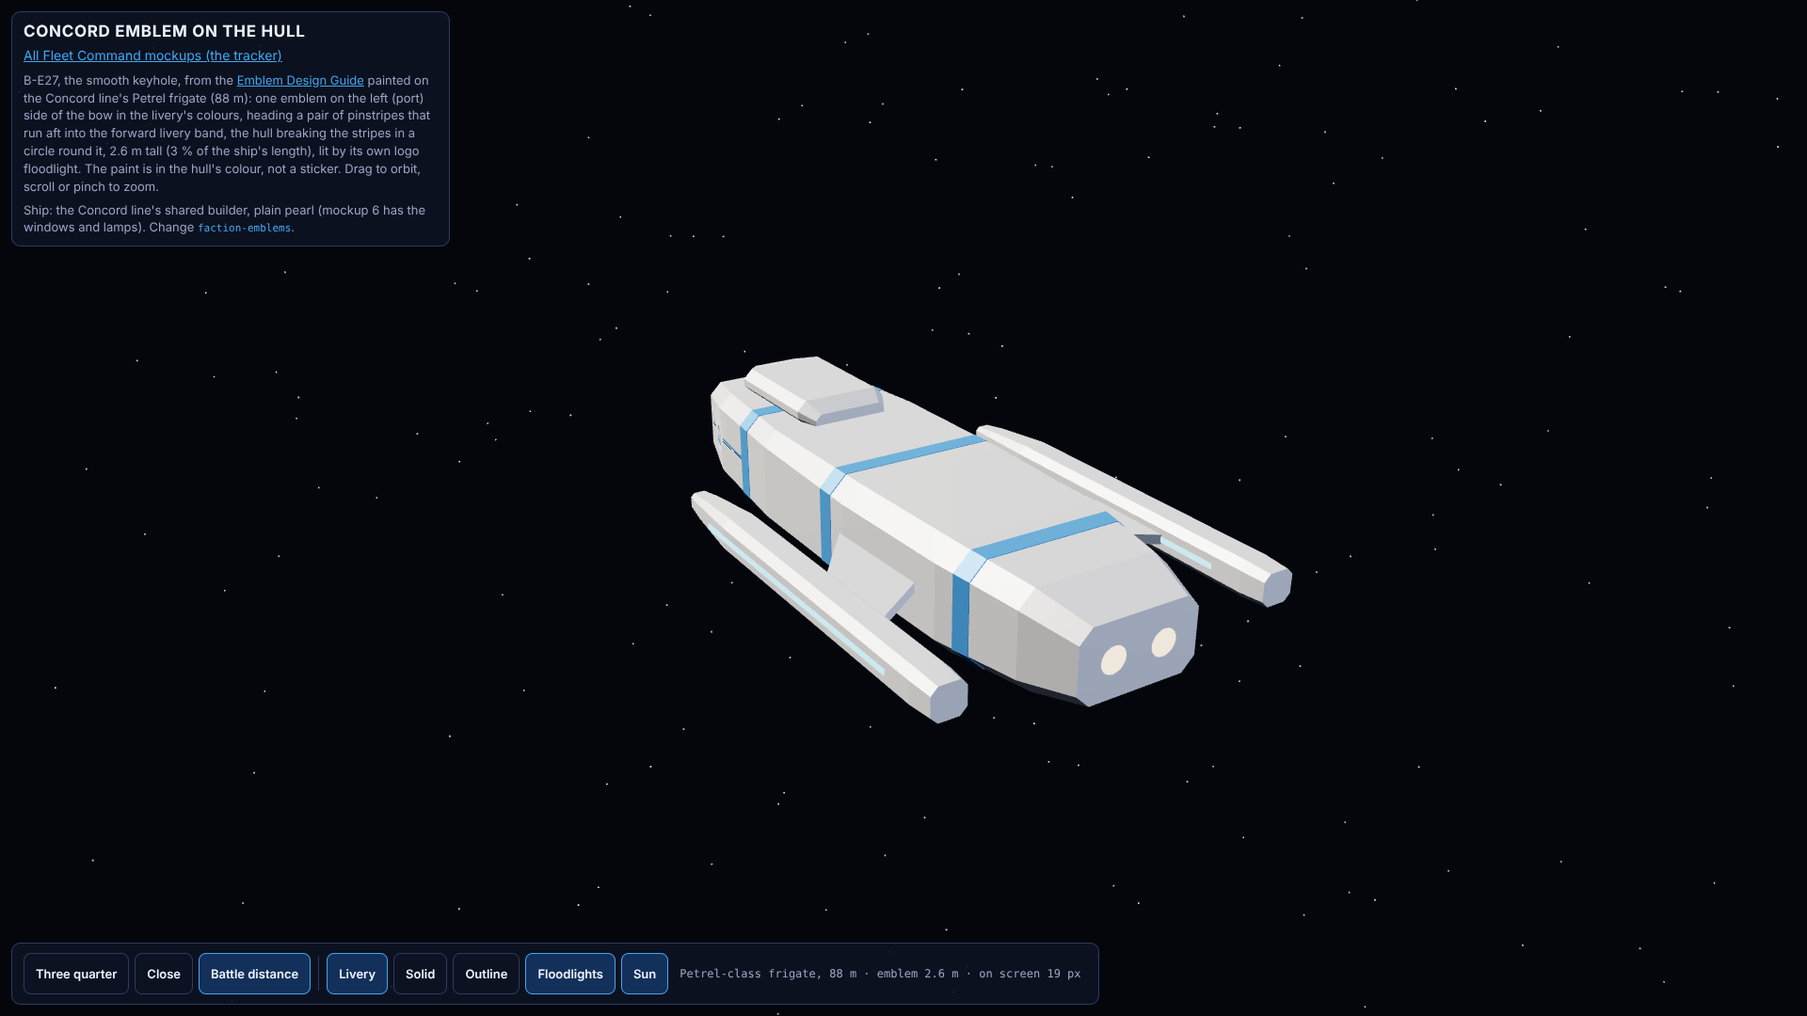
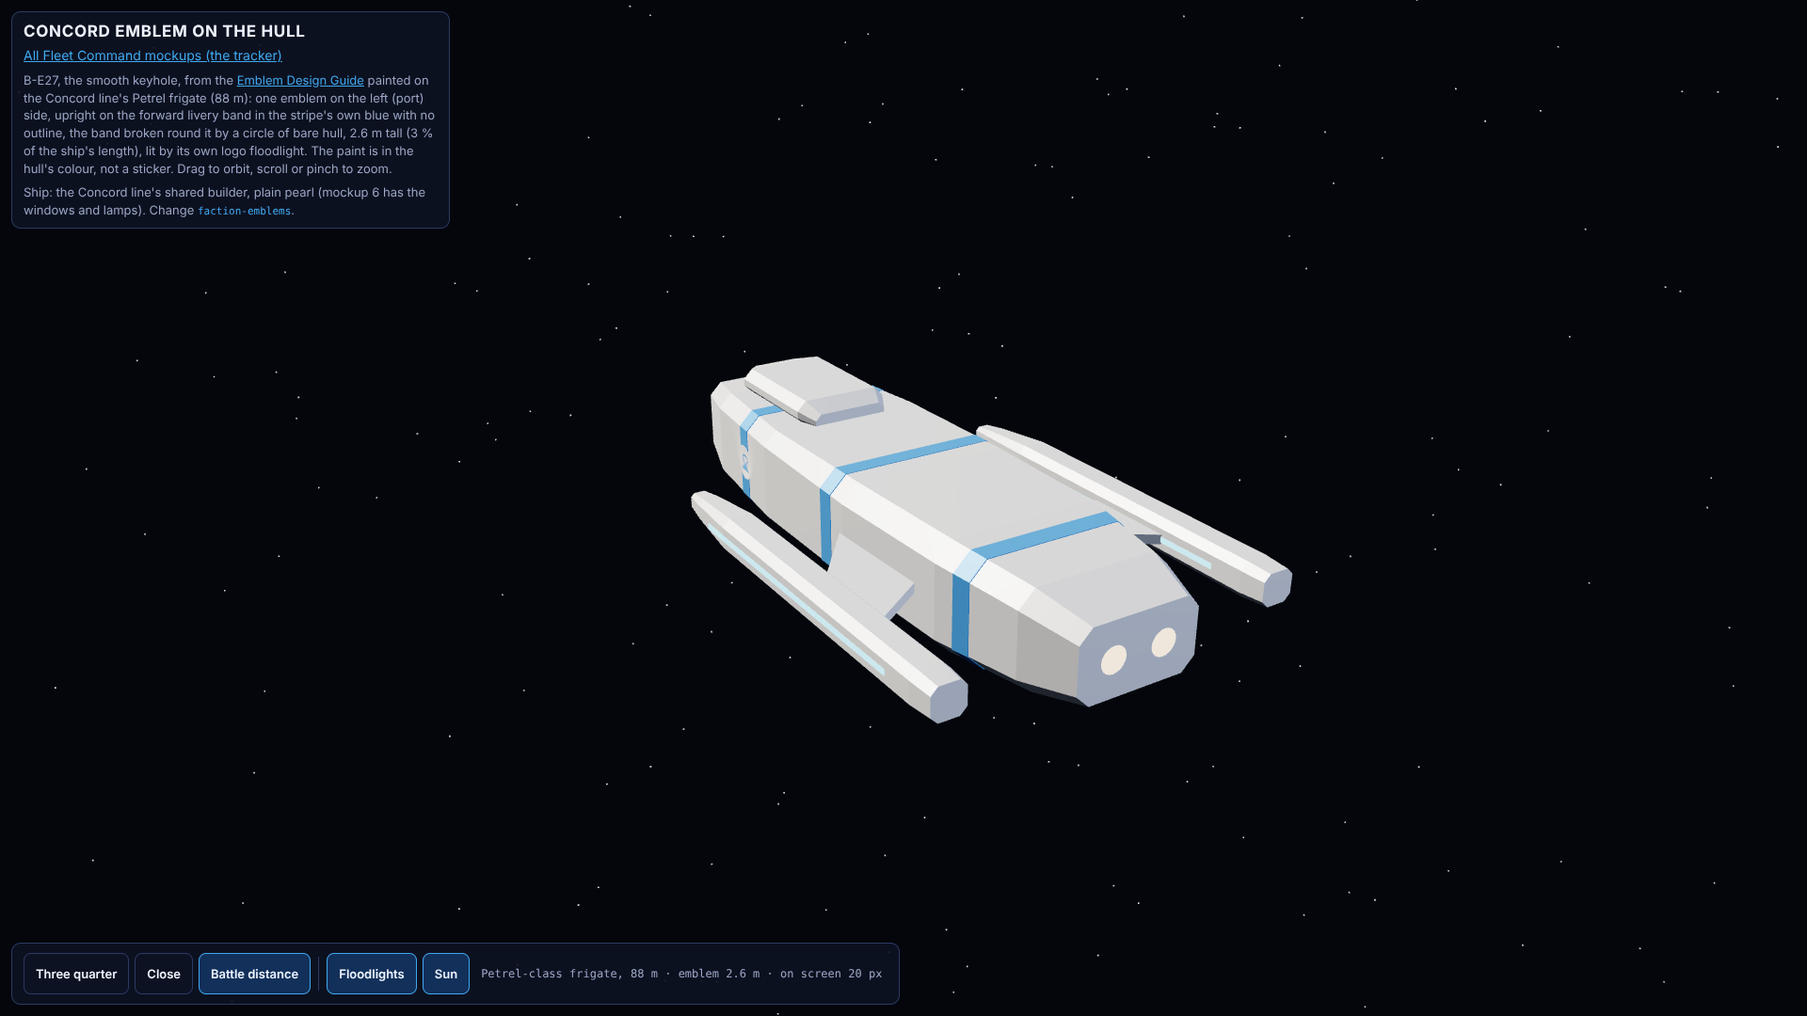
Concord emblem on the hull: on the livery band, no outline, band broken by bare hull; no livery added
Claude-Session: https://claude.ai/code/session_01RGPQurdNhehmMFB559epqW

Changed region(s): [[0.0, 0.0917, 0.25, 0.2444], [0.1875, 0.9167, 0.5312, 0.9778], [0.5625, 0.9472, 0.5938, 0.9778]]

diff --git a/docs/mockups/concord-emblem-hull.html b/docs/mockups/concord-emblem-hull.html
@@ -45,7 +45,7 @@ html, body { margin: 0; height: 100%; background: var(--bg); color: var(--ink); 
 <div class="panel title">
   <h1>Concord emblem on the hull</h1>
   <a href="https://claude.ai/artifact/8VqA9YjhCrgoiY2CGR1Qxu" target="_blank" rel="noopener">All Fleet Command mockups (the tracker)</a>
-  <p class="long">B-E27, the smooth keyhole, from the <a href="https://claude.ai/artifact/1ELwhue4vzFPjySnVc475V" target="_blank" rel="noopener">Emblem Design Guide</a> painted on the Concord line's Petrel frigate (88 m): one emblem on the left (port) side of the bow in the livery's colours, heading a pair of pinstripes that run aft into the forward livery band, the hull breaking the stripes in a circle round it, 2.6 m tall (3 % of the ship's length), lit by its own logo floodlight. The paint is in the hull's colour, not a sticker. Drag to orbit, scroll or pinch to zoom.</p>
+  <p class="long">B-E27, the smooth keyhole, from the <a href="https://claude.ai/artifact/1ELwhue4vzFPjySnVc475V" target="_blank" rel="noopener">Emblem Design Guide</a> painted on the Concord line's Petrel frigate (88 m): one emblem on the left (port) side, upright on the forward livery band in the stripe's own blue with no outline, the band broken round it by a circle of bare hull, 2.6 m tall (3 % of the ship's length), lit by its own logo floodlight. The paint is in the hull's colour, not a sticker. Drag to orbit, scroll or pinch to zoom.</p>
   <p>Ship: the Concord line's shared builder, plain pearl (mockup 6 has the windows and lamps). Change <code>faction-emblems</code>.</p>
 </div>
 <div class="panel bar" id="bar"></div>
@@ -325,20 +325,11 @@ const PARTS = data('assets/emblems/concord/b-e27.parts.json');
 const CL = window.FCConcordLine(THREE);
 const V3 = (x = 0, y = 0, z = 0) => new THREE.Vector3(x, y, z);
 
-// The guide's two versions (docs/design/emblem-guide.html, VERSIONS): night-blue on a pearl field for a light ground (the
-// pearl hull), and pearl on a night field for a dark one.
-// The solid one is the default (owner, 2026-11-04: "on the ship hull I like the solid shape more").
-// The livery version is the default (owner, 2026-11-04: "Have it use the same color scheme as the liveries and integrate
-// it into one of the stripes"): its field is the livery's stripe colour, so the keyhole reads as the stripe swelling into a
-// badge; its frame the livery's seam colour; the ship pearl and the star cyan (owner: "a cyan colored star in the
-// middle"). The livery's colours are read from the Concord line's own table (CL.LIVERIES), the stripes' one source.
+// The emblem's colours (owner, 2026-11-04): the field in the livery's stripe colour ("use the same color scheme as the
+// liveries"), read from the Concord line's own table (CL.LIVERIES); a pearl ship; a cyan star ("a cyan colored star in the
+// middle"); and no outline ("No outline"), so the keyhole is the stripe-blue field alone.
 const LIVERY = CL.LIVERIES.concord, srgb = (rgb) => '#' + new THREE.Color(...rgb).convertLinearToSRGB().getHexString();
-const VERSIONS = {
-  livery: { label: 'Livery', ink: '#eef3ff', field: srgb(LIVERY.stripe), frame: srgb(LIVERY.seam), floor: '#2fd0f0', lit: '#8fb0f6' },
-  // The star cyan on the solid version (owner, 2026-11-04: "Solid color variant with a cyan colored star in the middle").
-  dk: { label: 'Solid', ink: '#eef3ff', field: '#1b2a6b', frame: '#eef3ff', floor: '#2fd0f0', lit: '#8fb0f6' },
-  lt: { label: 'Outline', ink: '#1b2a6b', field: '#eef3ff', frame: '#1b2a6b', floor: '#2f62e0', lit: '#7fa2f2' },
-};
+const PAINT = { ink: '#eef3ff', field: srgb(LIVERY.stripe), frame: null, floor: '#2fd0f0', lit: '#8fb0f6' };
 const CLASS_ID = 'petrel_level';
 const C = CL.CLASSES[CLASS_ID];
 const MARK_H = C.length * 0.03;               // half of E7's 6 % (owner: "1/2 size"): 3 % of the ship's length, 2.6 m on the Petrel
@@ -352,7 +343,7 @@ function emblemCanvas(v) {
   const g = cv.getContext('2d');
   const path = (rings) => { g.beginPath(); for (const r of rings) { r.forEach(([x, y], i) => (i ? g.lineTo(x * k, y * k) : g.moveTo(x * k, y * k))); g.closePath(); } };
   const fill = (rings, col, rule = 'nonzero') => { path(rings); g.fillStyle = col; g.fill(rule); };
-  fill(PARTS.frame, v.frame, 'evenodd');
+  if (v.frame) fill(PARTS.frame, v.frame, 'evenodd');
   fill(PARTS.field, v.field);
   for (const leg of PARTS.legs) fill([leg], v.ink);
   fill([PARTS.tail], v.ink);
@@ -391,43 +382,32 @@ scene.add(ship);
 const S = C.stations, top = (z) => CL.hullAt(S, z)[2];
 const MARKS = [];
 { // One emblem, half size, on the left (port) side (owner, 2026-11-04: "too many logos on the hull there", "1/2 size on the
-  // left side", "only one logo"), forward on the bow's flat side ahead of the last windows (C.live[1]), upright (owner:
-  // "don't rotate our logo"). The side narrows toward the bow, so its normal leans forward.
-  const half = MARK_H * 0.9 / 2 + 0.6, z = C.live[1] + half, h = CL.hullAt(S, z), ch = CL.chOf(h[1], h[2], h[3], h[4]);
+  // left side", "only one logo"), upright ("don't rotate our logo"), centred on the forward livery band on the hull's flat
+  // side ("place emblem on livery stripe"). The side narrows toward the bow, so its normal leans forward.
+  const z = Math.max(...C.stripes), h = CL.hullAt(S, z), ch = CL.chOf(h[1], h[2], h[3], h[4]);
   const y = ((h[2] - ch) + (h[3] + ch)) / 2, dhb = (CL.hullAt(S, z + 1)[1] - CL.hullAt(S, z - 1)[1]) / 2;
   const n = V3(1, 0, -dhb).normalize(), v = V3(0, 1, 0);
   MARKS.push({ key: 'port', c: V3(h[1], y, z), n, v, u: V3().crossVectors(v, n) });
 }
-// The pinstripes (owner, 2026-11-04: "integrate it into one of the stripes", then a reference of a hull whose emblem heads
-// a pair of pinstripes, "See how this works?"): two lines in the livery's colours run aft from the emblem's side along the
-// flank, a broad one in the stripe colour over a thin one in the seam colour, and end in the forward livery band, so the
-// emblem is tied into the ship's own stripes. Metres, ship space; painted on the port flank only.
-const PIN = (() => { const m = MARKS[0], band = Math.max(...C.stripes.filter((z) => z < m.c.z));
-  // The hull breaks the stripe round the emblem (owner, 2026-11-04: "The stripe having a circle around it where the logo
-  // crosses", "The hull should break the stripe livery at that spot"): a circle of bare plating, clear of the emblem's
-  // farthest corner by 0.35 m, inside which no stripe is painted.
-  const corner = Math.max(...PARTS.frame.flat().map(([x, y]) => Math.hypot(x - 50, y - 50))) * M_PER_UNIT;
-  const clear = corner + 0.35; // the stripes carry on forward past the emblem too, so the emblem crosses them
-  return { z0: band + 1.2, z1: m.c.z + clear + 2.5, y0: m.c.y, broad: [0.05, 0.33], thin: [-0.17, -0.05], clear }; })();
+// The hull breaks the band round the emblem (owner, 2026-11-04: "The stripe having a circle around it where the logo
+// crosses", "The hull should break the stripe livery at that spot"): inside a circle 0.35 m clear of the emblem's farthest
+// corner the band is cut away, so bare pearl plating rings the emblem. No livery is added ("do not add livery in this
+// change"): the band is the Concord line's own.
+const BREAK_R = Math.max(...PARTS.frame.flat().map(([x, y]) => Math.hypot(x - 50, y - 50))) * M_PER_UNIT + 0.35;
 
 // The paint: the hull's pearl material with the emblem mixed into its colour where each mark's square covers the plating
 // that faces the mark's way. Planar projection in ship space, so the paint follows the hull's own faces.
-const decalTex = new THREE.CanvasTexture(emblemCanvas(VERSIONS.livery));
+const decalTex = new THREE.CanvasTexture(emblemCanvas(PAINT));
 decalTex.encoding = THREE.sRGBEncoding; decalTex.anisotropy = 8; decalTex.generateMipmaps = true;
 const uDecal = { value: decalTex };
 const uMarks = MARKS.map((m) => ({ c: m.c, n: m.n, u: m.u, v: m.v }));
-function paintHull(mat) {
+function paintHull(mat, cut = false) {
   const m = mat.clone();
   m.onBeforeCompile = (sh) => {
     sh.uniforms.uDecal = uDecal;
     MARKS.forEach((mk, i) => { for (const k of ['c', 'n', 'u', 'v']) sh.uniforms[`uM${i}${k}`] = { value: mk[k] }; });
     sh.uniforms.uSize = { value: TEX_SIZE_M };
-    sh.uniforms.uPin = { value: new THREE.Vector4(PIN.z0, PIN.z1, PIN.y0, PIN.clear) };
-    sh.uniforms.uPinC = { value: MARKS[0].c };
-    sh.uniforms.uPinBroad = { value: new THREE.Vector2(...PIN.broad) };
-    sh.uniforms.uPinThin = { value: new THREE.Vector2(...PIN.thin) };
-    sh.uniforms.uPinA = { value: new THREE.Color(...LIVERY.stripe) };
-    sh.uniforms.uPinB = { value: new THREE.Color(...LIVERY.seam) };
+    sh.uniforms.uBreak = { value: BREAK_R };
     sh.vertexShader = sh.vertexShader.replace('#include <common>', '#include <common>\nvarying vec3 vShipPos;\nvarying vec3 vShipN;')
       .replace('#include <begin_vertex>', '#include <begin_vertex>\nvShipPos = position;\nvShipN = normal;');
     const decl = MARKS.map((_, i) => `uniform vec3 uM${i}c, uM${i}n, uM${i}u, uM${i}v;`).join('\n');
@@ -437,16 +417,12 @@ varying vec3 vShipPos;
 varying vec3 vShipN;
 uniform sampler2D uDecal;
 uniform float uSize;
-uniform vec4 uPin;
-uniform vec2 uPinBroad, uPinThin;
-uniform vec3 uPinA, uPinB, uPinC;
+uniform float uBreak;
 ${decl}
-void pinstripes(inout vec3 col) {
-  if (vShipPos.x <= 0.0 || normalize(vShipN).x < 0.7 || vShipPos.z < uPin.x || vShipPos.z > uPin.y) return;
-  if (length((vShipPos - uPinC).yz) < uPin.w) return; // the hull's circle round the emblem
-  float dy = vShipPos.y - uPin.z;
-  if (dy > uPinBroad.x && dy < uPinBroad.y) col = uPinA;
-  else if (dy > uPinThin.x && dy < uPinThin.y) col = uPinB;
+// The band is cut away inside the circle round the first mark, so the plating under it shows.
+void breakBand() {
+  vec3 d = vShipPos - uM0c;
+  if (abs(dot(d, uM0n)) < 1.5 && length(vec2(dot(d, uM0u), dot(d, uM0v))) < uBreak) discard;
 }
 void paint(vec3 c, vec3 n, vec3 u, vec3 v, inout vec3 col) {
   vec3 d = vShipPos - c;
@@ -457,14 +433,16 @@ void paint(vec3 c, vec3 n, vec3 u, vec3 v, inout vec3 col) {
   if (uv.x < 0.0 || uv.x > 1.0 || uv.y < 0.0 || uv.y > 1.0) return;
   vec4 t = texture2D(uDecal, uv);
   col = mix(col, t.rgb, t.a);
-}`).replace('#include <map_fragment>', `#include <map_fragment>\npinstripes(diffuseColor.rgb);\n${apply}`);
+}`).replace('#include <map_fragment>', `#include <map_fragment>\n${cut ? 'breakBand();' : apply}`);
   };
-  m.customProgramCacheKey = () => 'emblem-paint';
+  m.customProgramCacheKey = () => (cut ? 'emblem-cut' : 'emblem-paint');
   return m;
 }
-// Painted on the primary hull's pearl and on its livery stripes, so the emblem runs across the stripe it sits on.
+// Painted on the primary hull's pearl; the livery bands over it are cut away round the emblem.
 const stripeHex = new THREE.Color(...LIVERY.stripe).getHex();
-ship.traverse((o) => { if (o.isMesh && o.userData.part === 'primary' && o.material.color && [0xe4e2dc, stripeHex].includes(o.material.color.getHex())) o.material = paintHull(o.material); });
+ship.traverse((o) => { if (!o.isMesh || o.userData.part !== 'primary' || !o.material.color) return;
+  const hex = o.material.color.getHex();
+  if (hex === 0xe4e2dc) o.material = paintHull(o.material); else if (hex === stripeHex) o.material = paintHull(o.material, true); });
 
 // Light: a low sun and the logo floodlights (CLAUDE.md section 10: logo lights on insignia and registry), each lamp standing
 // off the plating ahead of or below its mark and throwing its fan across it.
@@ -482,7 +460,7 @@ for (const mk of MARKS) {
 // Views. Each is a camera offset from a target, in ship space.
 const VIEWS = {
   three_quarter: { label: 'Three quarter', at: V3(0, 2, 4), from: V3(95, 45, 105), fov: 40 },
-  flank: { label: 'Close', at: MARKS[0].c.clone().add(V3(0, 0, -4)), from: MARKS[0].c.clone().add(MARKS[0].n.clone().multiplyScalar(16)).add(V3(0, 2, -1)), fov: 40 },
+  flank: { label: 'Close', at: MARKS[0].c.clone(), from: MARKS[0].c.clone().add(MARKS[0].n.clone().multiplyScalar(13)).add(V3(0, 2, 2)), fov: 40 },
   chase: { label: 'Battle distance', at: V3(0, 0, 0), from: null, fov: 40 }, // set so the ship fills 40 % of the width
 };
 function setView(key) {
@@ -498,16 +476,11 @@ function setView(key) {
 }
 let current = 'three_quarter';
 
-// The bar: views, the paint version, floodlights and the sun.
+// The bar: views, floodlights and the sun.
 const bar = document.getElementById('bar');
 const btn = (label, on) => { const b = document.createElement('button'); b.type = 'button'; b.textContent = label; b.addEventListener('click', on); bar.append(b); return b; };
 const viewBtns = Object.entries(VIEWS).map(([k, V]) => { const b = btn(V.label, () => setView(k)); b.dataset.view = k; return b; });
 bar.append(Object.assign(document.createElement('span'), { className: 'sep' }));
-const verBtns = Object.entries(VERSIONS).map(([k, v]) => { const b = btn(v.label, () => setVersion(k)); b.dataset.ver = k; return b; });
-function setVersion(k) {
-  decalTex.image = emblemCanvas(VERSIONS[k]); decalTex.needsUpdate = true;
-  for (const b of verBtns) b.setAttribute('aria-pressed', String(b.dataset.ver === k));
-}
 const floodBtn = btn('Floodlights', () => { const on = floodBtn.getAttribute('aria-pressed') !== 'true'; floodBtn.setAttribute('aria-pressed', String(on)); floods.forEach((f) => (f.visible = on)); });
 floodBtn.setAttribute('aria-pressed', 'true');
 const sunBtn = btn('Sun', () => { const on = sunBtn.getAttribute('aria-pressed') !== 'true'; sunBtn.setAttribute('aria-pressed', String(on)); sun.visible = on; });
@@ -533,12 +506,11 @@ function resize() {
 }
 window.addEventListener('resize', resize);
 resize();
-setVersion('livery');
 setView('three_quarter');
 renderer.setAnimationLoop(() => { controls.update(); renderer.render(scene, camera); });
 
-const shot = (k, ver = 'livery') => () => { setVersion(ver); setView(k); controls.update(); renderer.render(scene, camera); };
-window.MOCKUP_SHOTS = { three_quarter: shot('three_quarter'), flank: shot('flank'), chase: shot('chase'), flank_solid: shot('flank', 'dk') };
+const shot = (k) => () => { setView(k); controls.update(); renderer.render(scene, camera); };
+window.MOCKUP_SHOTS = { three_quarter: shot('three_quarter'), flank: shot('flank'), chase: shot('chase') };
 window.MOCKUP_SCENE = scene;
 requestAnimationFrame(() => requestAnimationFrame(() => { window.MOCKUP_READY = true; }));
 })();

diff --git a/docs/mockups/tracker.html b/docs/mockups/tracker.html
@@ -134,8 +134,8 @@ const MOCKUPS = [
     url: 'https://claude.ai/artifact/CJSVJxXYLn7cdKF6TDtvDN', published: '2026-11-04', version: 6,
     summary: 'The Concord emblem you accepted (B-E27, the smooth keyhole) as an orbitable badge 100 mm across: a brushed platinum frame, an iridescent pearl ship with a two-tier saucer, segmented legs and a satin cyan star pressed into it, and a holographic night in the bell whose nebula and stars sit at different depths and move as you turn it. Material Maker maps (colour, normal, AO, roughness and metal, specular); the Blender renders beside it.' },
   { id: 'M11', title: 'Concord emblem on the hull', change: 'faction-emblems', page: 'docs/mockups/concord-emblem-hull.html',
-    url: 'https://claude.ai/artifact/FLP6mnCeUCwn9c2rG2pxK9', published: '2026-11-04', version: 7,
-    summary: 'The Concord emblem you accepted, B-E27 (the smooth keyhole), painted once on the Concord line\'s Petrel frigate (88 m): upright on the left (port) side of the bow, half size at 2.6 m (3 % of the ship\'s length), in the livery\'s colours with a cyan star, crossing two pinstripes that run aft into the forward livery band, the hull breaking them in a circle round it, under its own logo floodlight, painted into the hull\'s colour (no sticker). The solid and outline versions as other choices. Views: three quarter, close and battle distance, with the emblem\'s height on screen.' },
+    url: 'https://claude.ai/artifact/FLP6mnCeUCwn9c2rG2pxK9', published: '2026-11-04', version: 8,
+    summary: 'The Concord emblem you accepted, B-E27 (the smooth keyhole), painted once on the Concord line\'s Petrel frigate (88 m): upright on the left (port) side on the forward livery band, half size at 2.6 m (3 % of the ship\'s length), in the stripe\'s own blue with no outline and a cyan star, the band broken round it by a circle of bare hull, under its own logo floodlight, painted into the hull\'s colour (no sticker). No livery added. Views: three quarter, close and battle distance, with the emblem\'s height on screen.' },
 ];
 
 // Every other published artifact, by section. Each also has a record in docs/artifacts/<name>/README.md.

diff --git a/openspec/changes/faction-emblems/design.md b/openspec/changes/faction-emblems/design.md
@@ -63,14 +63,13 @@ closed outline with the ship 5.3 units clear. On the hull it is the solid versio
 "Solid color variant with a cyan colored star in the middle"). The 3D badge (mockup 10) is rebuilt on B-E27 (owner: "Also render the 3d version too"),
 its star satin cyan: the near-white pearl enamel's maps tinted `#2fd0f0`, since Signal blue cannot be tinted up to cyan.
 
-**On the hull, in the livery** (owner, 2026-11-04: "Have it use the same color scheme as the liveries and integrate it into
-one of the stripes", then "See how this works? Although don't rotate our logo", with a reference of an emblem heading a
-pair of pinstripes): the emblem's field is the livery's stripe colour and its frame the seam colour, both read from the
-Concord line's livery table, with a pearl ship and the cyan star. It stands upright on the port bow and heads two
-pinstripes (broad stripe blue, 0.28 m, over thin seam navy, 0.12 m) that run aft along the flank and end in the forward
-livery band. Taken from the reference: only the idea of an emblem heading pinstripes; no shape or art. The emblem
-crosses the stripes, which run on forward past it, and the hull breaks them in a circle of bare plating round it, 0.35 m
-clear of its farthest corner (owner: "The hull should break the stripe livery at that spot").
+**On the hull, on the livery band** (owner, 2026-11-04: "Have it use the same color scheme as the liveries and integrate it
+into one of the stripes", "don't rotate our logo", "The hull should break the stripe livery at that spot", then "No
+outline, place emblem on liver stripe dp not add livery in this change"): the emblem stands upright on the forward livery
+band on the port side, its field the band's own stripe colour (read from the Concord line's livery table) with no outline,
+a pearl ship and the cyan star. The band is cut away round it in a circle of bare plating 0.35 m clear of its farthest
+corner. This change adds no livery; the band is the Concord line's own. (A pinstripe layout, after a reference picture of
+an emblem heading two pinstripes, was tried and dropped.)
 
 ## The rules for an emblem
 

diff --git a/mockup-work.md b/mockup-work.md
@@ -31,7 +31,7 @@ account and every link here is updated.
 | 8 | Battle console: Krai Warhost | Drafted (2026-11-04, v13) | `krai-battle-console` | `docs/mockups/battle-console-krai.html` (written by `tools/mockups/skin_page.py`) | https://claude.ai/artifact/D6PacxkhuY6Q2n8TGHKDTv |
 | 9 | Faction emblems: every faction's crest and insignia | Drafted (2026-11-03, page written; to publish from the desktop session) | `faction-emblems` | `docs/mockups/faction-emblems.html` | |
 | 10 | Concord badge in 3D: the emblem shape B-E27 (the smooth keyhole) as a badge | Drafted (2026-11-04, v6) | `faction-emblems` | `docs/mockups/concord-emblem-3d.html` | https://claude.ai/artifact/CJSVJxXYLn7cdKF6TDtvDN |
-| 11 | Concord emblem on the hull: B-E27 (the smooth keyhole) painted on the Petrel frigate | Drafted (2026-11-04, v7) | `faction-emblems` | `docs/mockups/concord-emblem-hull.html` | https://claude.ai/artifact/FLP6mnCeUCwn9c2rG2pxK9 |
+| 11 | Concord emblem on the hull: B-E27 (the smooth keyhole) painted on the Petrel frigate | Drafted (2026-11-04, v8) | `faction-emblems` | `docs/mockups/concord-emblem-hull.html` | https://claude.ai/artifact/FLP6mnCeUCwn9c2rG2pxK9 |
 
 New mockups are added at the bottom with the owner's words, never renumbered.
 
@@ -563,3 +563,6 @@ Owner, 2026-11-04: "nice! can you show what this emblem looks on concord ship hu
 - **The hull breaks the stripe** (owner, 2026-11-04: "The stripe having a circle around it where the logo crosses", "The
   hull should break the stripe livery at that spot"): the pinstripes carry on forward past the emblem, so it crosses them,
   and stop at a circle of bare plating round it, clear of its farthest corner by 0.35 m.
+- **Now** (owner, 2026-11-04: "No outline, place emblem on liver stripe dp not add livery in this change"): the pinstripes
+  are gone (no livery is added by this change); the emblem sits upright on the forward livery band, in the stripe's own
+  blue with no outline, a pearl ship and the cyan star, and the band is cut away round it in a circle of bare hull.

diff --git a/docs/artifacts/concord-emblem-hull/README.md b/docs/artifacts/concord-emblem-hull/README.md
@@ -14,3 +14,4 @@
 - 2026-11-04, version 5 (`1793788087-2c05`): the emblem set into the forward livery band in the livery's colours (owner: "Have it use the same color scheme as the liveries and integrate it into one of the stripes").
 - 2026-11-04, version 6 (`1793788267-6bcc`): upright on the port bow heading two livery pinstripes that run aft into the forward band (owner, with a reference picture of a hull whose emblem heads a pair of pinstripes: "See how this works? Although don't rotate our logo"; the picture is not committed, only the idea is taken).
 - 2026-11-04, version 7 (`1793788570-1699`): the hull breaks the pinstripes in a circle round the emblem, clear of its farthest corner by 0.35 m, and the stripes carry on forward past it so the emblem crosses them (owner: "The stripe having a circle around it where the logo crosses", "The hull should break the stripe livery at that spot").
+- 2026-11-04, version 8 (`1793788909-a25e`): on the forward livery band itself, upright, in the stripe's blue with no outline, the band cut away round it in a circle of bare hull; the pinstripes and the other paint versions removed (owner: "No outline, place emblem on liver stripe dp not add livery in this change").

diff --git a/docs/artifacts/mockup-tracker/README.md b/docs/artifacts/mockup-tracker/README.md
@@ -82,3 +82,4 @@
 - 2026-11-04, cloud session: M11 at v6; version 85, id `1793788278-3e0e`.
 - 2026-11-04, cloud session: M10 at v6; version 86, id `1793788359-71cc`.
 - 2026-11-04, cloud session: M11 at v7; version 87, id `1793788581-0fb3`.
+- 2026-11-04, cloud session: M11 at v8; version 88, id `1793788922-ee81`.
